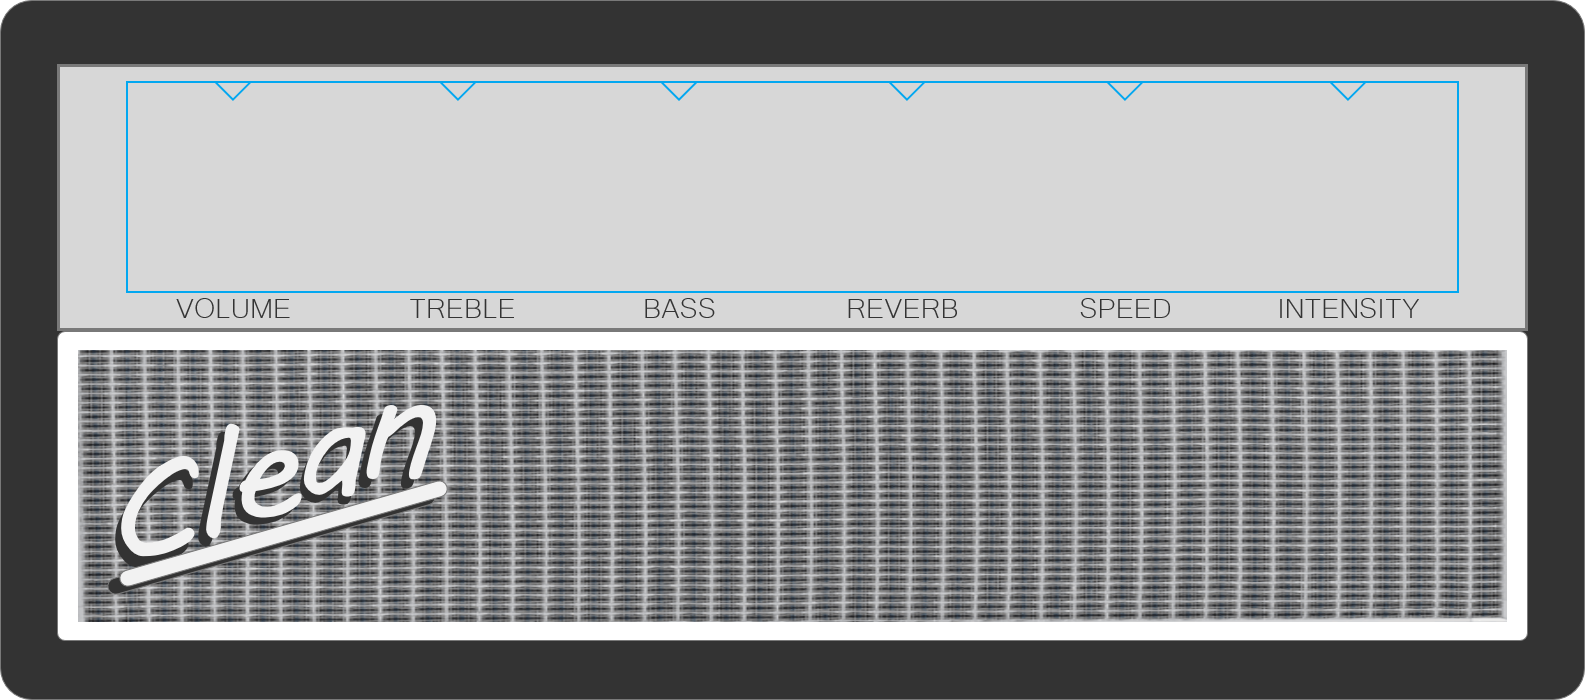
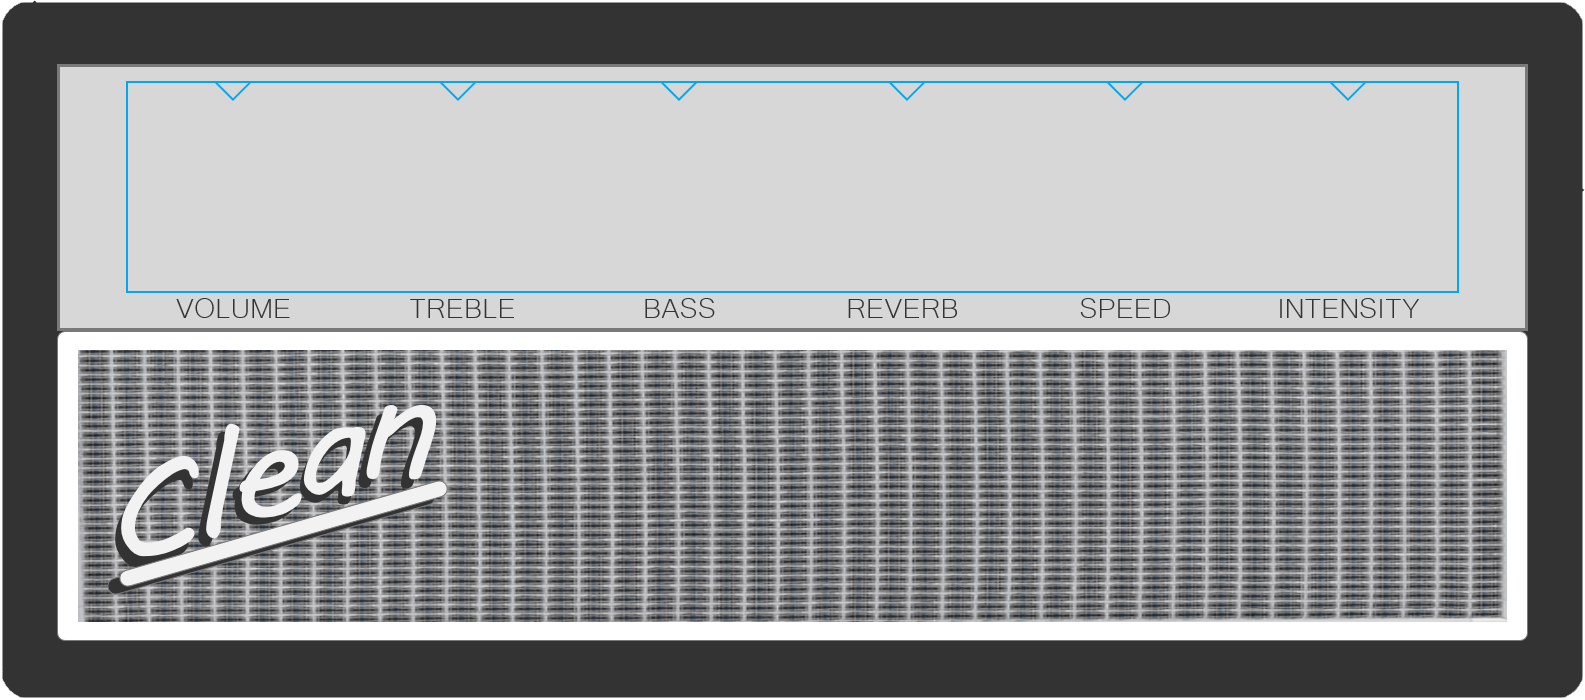
Updated "Look & Feel"

Changed region(s): [[0.0, 0.99, 0.9893, 1.0], [0.0, 0.0, 0.9893, 0.03], [0.9893, 0.03, 1.0, 0.96]]

diff --git a/java/src/main/java/basik/kyleyannelli/fx/BasikGUIController.java b/java/src/main/java/basik/kyleyannelli/fx/BasikGUIController.java
@@ -2,7 +2,9 @@ package basik.kyleyannelli.fx;
 
 import javafx.event.ActionEvent;
 import javafx.fxml.FXML;
+import javafx.scene.control.Button;
 import javafx.scene.control.MenuItem;
+import javafx.scene.control.ToggleButton;
 import javafx.scene.image.ImageView;
 import javafx.scene.input.MouseEvent;
 import javafx.stage.Stage;
@@ -13,6 +15,11 @@ public class BasikGUIController {
     private final double maxKnobRotate = 140;
     private final double minKnobRotate = -140;
     private double startingMouseY;
+    private boolean  isStandby = false;
+    @FXML
+    private ToggleButton distChannelButton;
+    @FXML
+    private Button openPedalsButton;
     @FXML
     private MenuItem menuQuitItem;
 
@@ -49,6 +56,17 @@ public class BasikGUIController {
     void onOpenIOMenu(ActionEvent event) throws IOException {
         BasikIOGUI basikIOGUI = new BasikIOGUI();
         basikIOGUI.start(new Stage());
+    }
+
+    @FXML
+    public void onStandby(ActionEvent event) {
+        if((isStandby = !isStandby)) {
+            distChannelButton.setDisable(true);
+            openPedalsButton.setDisable(true);
+        } else {
+            distChannelButton.setDisable(false);
+            openPedalsButton.setDisable(false);
+        }
     }
 
     private void rotateKnobBasedOnMouse(ImageView imageView, MouseEvent event) {

diff --git a/java/src/main/java/basik/kyleyannelli/fx/BasikAPIPreloader.java b/java/src/main/java/basik/kyleyannelli/fx/BasikAPIPreloader.java
@@ -5,9 +5,15 @@ import javafx.geometry.Pos;
 import javafx.scene.Scene;
 import javafx.scene.control.Label;
 import javafx.scene.control.ProgressBar;
+import javafx.scene.layout.Background;
+import javafx.scene.layout.BackgroundFill;
 import javafx.scene.layout.BorderPane;
 import javafx.scene.layout.VBox;
+import javafx.scene.paint.Color;
 import javafx.stage.Stage;
+import jfxtras.styles.jmetro.JMetro;
+import jfxtras.styles.jmetro.JMetroStyleClass;
+import jfxtras.styles.jmetro.Style;
 
 public class BasikAPIPreloader extends Preloader {
     ProgressBar bar;
@@ -20,9 +26,13 @@ public class BasikAPIPreloader extends Preloader {
         BorderPane p = new BorderPane();
         VBox vBox = new VBox();
         vBox.setAlignment(Pos.CENTER);
+        vBox.setSpacing(4);
         vBox.getChildren().addAll(bar, label);
         p.setCenter(vBox);
-        return new Scene(p, 600, 413);
+        p.setBackground(new Background(new BackgroundFill(Color.valueOf("#454545"), null, null)));
+        Scene scene = new Scene(p, 250, 100);
+        JMetro jMetro = new JMetro(scene, Style.DARK);
+        return scene;
     }
 
     public void start(Stage stage) {

diff --git a/java/src/main/java/basik/kyleyannelli/fx/BasikGUI.java b/java/src/main/java/basik/kyleyannelli/fx/BasikGUI.java
@@ -4,6 +4,8 @@ import javafx.application.Application;
 import javafx.fxml.FXMLLoader;
 import javafx.scene.Scene;
 import javafx.stage.Stage;
+import jfxtras.styles.jmetro.JMetro;
+import jfxtras.styles.jmetro.Style;
 
 import java.io.IOException;
 import java.net.HttpURLConnection;
@@ -34,6 +36,7 @@ public class BasikGUI extends Application {
     public void start(Stage stage) throws IOException {
         FXMLLoader fxmlLoader = new FXMLLoader(BasikGUI.class.getResource("basik-view.fxml"));
         Scene scene = new Scene(fxmlLoader.load(), 600, 413);
+        JMetro jMetro = new JMetro(scene, Style.DARK);
         stage.setTitle("BasikGUI");
         stage.setScene(scene);
         stage.show();
